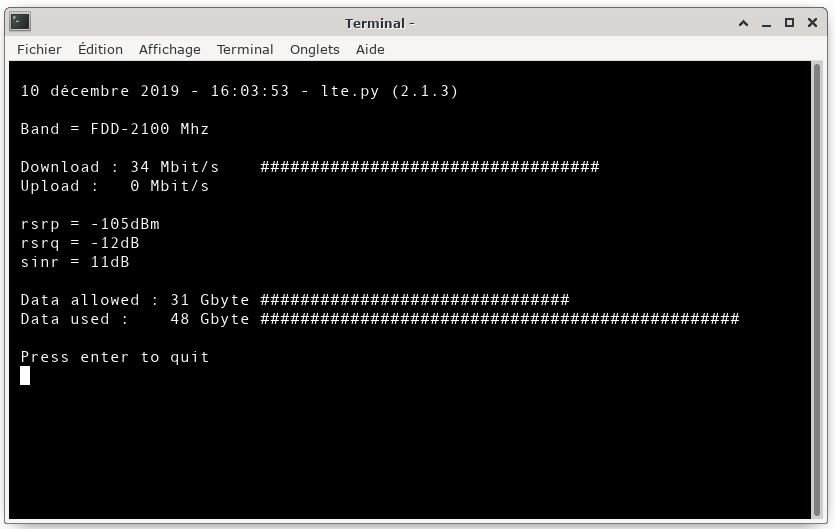
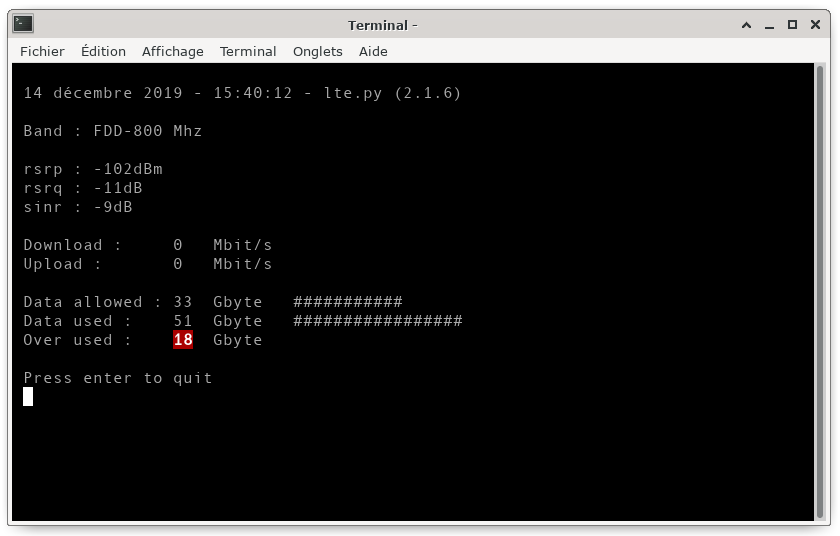
Ajout de l'écart de consommation et amélioration du formattage

diff --git a/lte.py b/lte.py
@@ -2,7 +2,7 @@
 #-*- coding: utf-8 -*-
 # https://github.com/Salamek/huawei-lte-api
 
-version = "2.1.5"
+version = "2.1.6"
 
 #pdb.set_trace() # TRACE
 import sys, pdb, os, base64, time, datetime, locale, traceback, curses 
@@ -21,7 +21,7 @@ class Keyboard(Thread) :
 	def run(self):
 		"""Running thread code."""
 		stdscr = curses.initscr()
-		s = stdscr.getstr(15,0,1) # Wait for keyboard press
+		s = stdscr.getstr(16,0,1) # Wait for keyboard press
 		stop = True
 
 # Thread statistics loop
@@ -34,7 +34,8 @@ class Stat(Thread) :
 		"""Running thread code."""
 		stdscr = curses.initscr()
 		curses.start_color()
-		curses.init_pair(1, curses.COLOR_WHITE, curses.COLOR_RED)
+		curses.init_pair(1, curses.COLOR_WHITE, curses.COLOR_BLACK)
+		curses.init_pair(2, curses.COLOR_WHITE, curses.COLOR_RED)
 		win = curses.newwin(20, 120, 0, 0)
 		win.scrollok(1)
 		bar = "##################################################################################"
@@ -59,34 +60,49 @@ class Stat(Thread) :
 			dataUsed = int((int(stat["CurrentMonthDownload"]) + int(stat["CurrentMonthUpload"])) / (1024*1024*1024))
 			forfait = int(client.monitoring.start_date()["DataLimit"].replace("GB", ""))	
 			dataAllowed = int((int(stat["MonthDuration"]) / (60 * 60 * 24)) * forfait / 31)
+			delta = dataAllowed - dataUsed 
 			# Print screen
 			y = 1
 			win.erase()
-			win.addstr(y, 1, date + " - " + basename(sys.argv[0]) + " (" + version + ")")
+			win.addstr(y, 1, date + " - " + basename(sys.argv[0]) + " (" + version + ")", curses.color_pair(1))
 			y += 2
-			win.addstr(y, 1, "Band : " + bandPrint + "Mhz")
+			win.addstr(y, 1, "Band : " + bandPrint + "Mhz", curses.color_pair(1))
 			y += 2
-			win.addstr(y, 1, "Download : " + str(download) + " Mbit/s")
-			win.addstr(y, 28, bar[0 : download % 50]) # Progress bar
+			win.addstr(y, 1, "rsrp : " + str(rsrp), curses.color_pair(1))
 			y += 1
-			win.addstr(y, 1, "Upload :   " + str(upload) + " Mbit/s")
-			win.addstr(y, 28, bar[0 : upload % 50]) # Progress bar
+			win.addstr(y, 1, "rsrq : " + str(rsrq), curses.color_pair(1))
+			y += 1
+			win.addstr(y, 1, "sinr : " + str(sinr), curses.color_pair(1))
 			y += 2
-			win.addstr(y, 1, "rsrp : " + str(rsrp))
+			win.addstr(y, 1, "Download :     " + str(download), curses.color_pair(1))
+			win.addstr(y, 20, "Mbit/s", curses.color_pair(1))
+			win.addstr(y, 28, bar[0 : download % 50], curses.color_pair(1)) # Progress bar
 			y += 1
-			win.addstr(y, 1, "rsrq : " + str(rsrq))
-			y += 1
-			win.addstr(y, 1, "sinr : " + str(sinr))
+			win.addstr(y, 1, "Upload :       " + str(upload), curses.color_pair(1))
+			win.addstr(y, 20, "Mbit/s", curses.color_pair(1))
+			win.addstr(y, 28, bar[0 : upload % 50], curses.color_pair(1)) # Progress bar
 			y += 2
-			win.addstr(y, 1, "Data allowed : " + str(dataAllowed) + " Gbyte")
-			win.addstr(y, 28, bar[0 : int(dataAllowed/3)]) # Progress bar
+			win.addstr(y, 1, "Data allowed : " + str(dataAllowed), curses.color_pair(1))
+			win.addstr(y, 20, "Gbyte", curses.color_pair(1))
+			win.addstr(y, 28, bar[0 : int(dataAllowed/3)], curses.color_pair(1)) # Progress bar
 			y += 1
-			win.addstr(y, 1, "Data used :    " + str(dataUsed) + " Gbyte")
-			win.addstr(y, 28, bar[0 : int(dataUsed/3)]) # Progress bar
+			win.addstr(y, 1, "Data used :    " + str(dataUsed), curses.color_pair(1))
+			win.addstr(y, 20, "Gbyte", curses.color_pair(1))
+			win.addstr(y, 28, bar[0 : int(dataUsed/3)], curses.color_pair(1)) # Progress bar
+			if delta >= 0 :
+				y += 1
+				win.addstr(y, 1, "Available :", curses.color_pair(1) )
+				win.addstr(y, 16, str(delta), curses.color_pair(1))
+				win.addstr(y, 20, "Gbyte", curses.color_pair(1))
+			else :
+				y += 1
+				win.addstr(y, 1, "Over used :    ", curses.color_pair(1) )
+				win.addstr(y, 16, str(-delta), curses.color_pair(2)|curses.A_BOLD)
+				win.addstr(y, 20, "Gbyte", curses.color_pair(1))				
 			y += 2
-			win.addstr(y, 1, "Press enter to quit")
+			win.addstr(y, 1, "Press enter to quit", curses.color_pair(1))
 			y += 1
-			win.addstr(y, 1, "")
+			win.addstr(y, 1, "", curses.color_pair(1))
 			win.refresh()
 			time.sleep(1)
 		curses.endwin()
